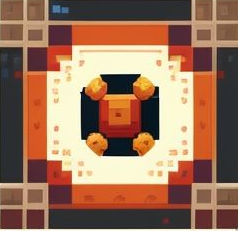
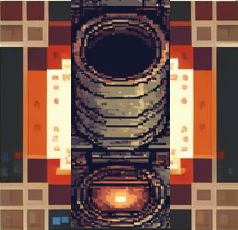
ui updates

diff --git a/scenes/game_scene.py b/scenes/game_scene.py
@@ -176,6 +176,20 @@ class GameScene:
             #print("Warning: Failed to load assets/effects/explosion.png for self-destruct effect.")
         # --- End Explosion Effect Image Loading ---
 
+        # --- Load Play Area Frame Overlay (single PNG with transparent center) ---
+        self.play_area_frame_image = None
+        try:
+            frame_path = os.path.join("assets", "images", "play_area_frame.png")
+            if os.path.exists(frame_path):
+                self.play_area_frame_image = pygame.image.load(frame_path).convert_alpha()
+            else:
+                # Optional: log a warning once
+                pass
+        except pygame.error:
+            # If image fails to load, continue without overlay
+            self.play_area_frame_image = None
+        # --- End Play Area Frame Overlay Loading ---
+
         # --- Placeholder Toggle Button ---
         self.debug_toggle_state = False # State of the toggle
         self.toggle_font = None
@@ -512,7 +526,8 @@ class GameScene:
             available_towers=self.available_towers, 
             tower_assets=self.tower_assets, 
             manager=self.ui_manager, 
-            initial_money=self.money, 
+            initial_money=self.money,
+            initial_lives=self.lives,
             panel_rect=pygame.Rect(self.panel_x, self.panel_y, self.panel_pixel_width, self.panel_pixel_height),
             damage_type_data=self.damage_type_data,
             click_sound=self.click_sound # Pass sound here
@@ -2098,6 +2113,12 @@ class GameScene:
                 if not instant_loss and self.game_state == GAME_STATE_RUNNING:
                     # Only deduct life if game hasn't ended due to boss
                     self.lives -= 1
+                    # Update tower selector lives display if present
+                    if hasattr(self, 'tower_selector') and self.tower_selector:
+                        try:
+                            self.tower_selector.update_lives(self.lives)
+                        except Exception:
+                            pass
                     # --- Play Life Loss Sound ---
                     if self.loss_life_sound:
                         self.loss_life_sound.play()
@@ -2194,45 +2215,54 @@ class GameScene:
         else:
             grid_bg_surface.fill((20, 20, 20)) # Fallback dark background
         
-        # Draw restricted side columns overlay
-        restricted_col_color = (40, 40, 40, 200) # Darker gray, more opaque
-        restricted_outline_color = (180, 180, 180) # Light gray outline
+        # Draw restricted side columns overlay (fills only; outlines removed to let frame art show)
+        # Icy blue tint for restricted areas
+        restricted_col_color = (120, 180, 255, 200)
         restricted_surface = pygame.Surface((self.usable_grid_pixel_width, self.usable_grid_pixel_height), pygame.SRCALPHA)
         
-        # Top restricted area fill and outline
+        # Top restricted area fill
         top_rect = pygame.Rect(0, 0, self.usable_grid_pixel_width, config.RESTRICTED_TOWER_AREA_HEIGHT * config.GRID_SIZE)
         pygame.draw.rect(restricted_surface, restricted_col_color, top_rect)
-        pygame.draw.rect(restricted_surface, restricted_outline_color, top_rect, 2) # Add outline
 
-        # Bottom restricted area fill and outline
-        # Calculate starting Y based on grid index to ensure alignment
+        # Bottom restricted area fill (aligned to grid)
         bottom_restricted_start_y_grid = self.grid_height - config.RESTRICTED_TOWER_AREA_HEIGHT
         bottom_restricted_start_y_pixel = bottom_restricted_start_y_grid * config.GRID_SIZE
         bottom_rect = pygame.Rect(0, bottom_restricted_start_y_pixel, 
                                 self.usable_grid_pixel_width, config.RESTRICTED_TOWER_AREA_HEIGHT * config.GRID_SIZE)
         pygame.draw.rect(restricted_surface, restricted_col_color, bottom_rect)
-        pygame.draw.rect(restricted_surface, restricted_outline_color, bottom_rect, 2) # Add outline
         
-        # Left restricted area fill and outline
+        # Left restricted area fill
         left_rect = pygame.Rect(0, 0, config.RESTRICTED_TOWER_AREA_WIDTH * config.GRID_SIZE, self.usable_grid_pixel_height)
         pygame.draw.rect(restricted_surface, restricted_col_color, left_rect)
-        pygame.draw.rect(restricted_surface, restricted_outline_color, left_rect, 2) # Add outline
         
-        # Right restricted area fill and outline
+        # Right restricted area fill
         right_rect = pygame.Rect(self.usable_grid_pixel_width - config.RESTRICTED_TOWER_AREA_WIDTH * config.GRID_SIZE, 0, config.RESTRICTED_TOWER_AREA_WIDTH * config.GRID_SIZE, self.usable_grid_pixel_height)
         pygame.draw.rect(restricted_surface, restricted_col_color, right_rect)
-        pygame.draw.rect(restricted_surface, restricted_outline_color, right_rect, 2) # Add outline
         
         grid_bg_surface.blit(restricted_surface, (0, 0))
 
         # Draw grid lines (on grid_bg_surface)
+        # Icy blue grid lines
+        icy_grid_color = (120, 180, 255)
         for x_line in range(0, self.usable_grid_pixel_width + 1, config.GRID_SIZE):
-            pygame.draw.line(grid_bg_surface, (80, 80, 80), (x_line, 0), (x_line, self.usable_grid_pixel_height))
+            pygame.draw.line(grid_bg_surface, icy_grid_color, (x_line, 0), (x_line, self.usable_grid_pixel_height))
         for y_line in range(0, self.usable_grid_pixel_height + 1, config.GRID_SIZE):
-            pygame.draw.line(grid_bg_surface, (80, 80, 80), (0, y_line), (self.usable_grid_pixel_width, y_line))
+            pygame.draw.line(grid_bg_surface, icy_grid_color, (0, y_line), (self.usable_grid_pixel_width, y_line))
             
         # Blit the completed grid surface onto the main screen at top-left
-        screen.blit(grid_bg_surface, (config.UI_PANEL_PADDING, config.UI_PANEL_PADDING)) # Add top/left padding
+        grid_topleft = (config.UI_PANEL_PADDING, config.UI_PANEL_PADDING)
+        screen.blit(grid_bg_surface, grid_topleft) # Add top/left padding
+
+        # Draw play area frame overlay if available (scaled to usable grid area)
+        if self.play_area_frame_image:
+            try:
+                frame_scaled = pygame.transform.scale(
+                    self.play_area_frame_image,
+                    (self.usable_grid_pixel_width, self.usable_grid_pixel_height)
+                )
+                screen.blit(frame_scaled, grid_topleft)
+            except Exception:
+                pass
 
         # --- Draw Spawn and Objective Areas (AFTER grid background is blitted) ---
         # Draw spawn area
@@ -3088,23 +3118,8 @@ class GameScene:
 
     def draw_ui(self, screen):
         """Draw UI elements"""
-        # Draw money and lives
-        font = pygame.font.Font(None, 36)
-        # money_text = font.render(f"Money: ${self.money}", True, (255, 255, 255)) # Commented out money rendering
-        lives_text_surface = font.render(f"Lives: {self.lives}", True, (255, 255, 255))
-        # screen.blit(money_text, (10, 10)) # Commented out money drawing
-        lives_text_rect = lives_text_surface.get_rect()
-        
-        # Center horizontally
-        lives_text_rect.centerx = self.screen_width // 2
-        
-        # Position vertically near the bottom (using bottom padding as reference)
-        lives_text_rect.bottom = self.screen_height - config.UI_PANEL_PADDING
-        
-        # NEW: Center the text rect within the objective area rect
-        lives_text_rect.center = self.objective_area_rect.center
-        
-        screen.blit(lives_text_surface, lives_text_rect)
+        # Lives now display in tower selector panel; nothing to draw here
+        return
         
 
 

diff --git a/ui/tower_selector.py b/ui/tower_selector.py
@@ -6,7 +6,7 @@ from pygame_gui.elements import UIScrollingContainer # Import the scrolling cont
 import os
 
 class TowerSelector:
-    def __init__(self, available_towers, tower_assets, manager, initial_money, panel_rect, damage_type_data, click_sound):
+    def __init__(self, available_towers, tower_assets, manager, initial_money, initial_lives, panel_rect, damage_type_data, click_sound):
         """
         Initialize the tower selection UI panel within the provided rect.
         
@@ -14,6 +14,7 @@ class TowerSelector:
         :param tower_assets: Instance of TowerAssets
         :param manager: pygame_gui UIManager instance
         :param initial_money: The starting money amount from the game scene
+        :param initial_lives: The starting lives amount from the game scene
         :param panel_rect: The pygame.Rect defining the panel's position and size
         :param damage_type_data: Dictionary containing descriptions for damage types
         :param click_sound: Loaded pygame.mixer.Sound object for clicks
@@ -27,6 +28,7 @@ class TowerSelector:
         self.tower_images = {}
         self.expanded_tower_id = None
         self.money = initial_money
+        self.lives = initial_lives
         self.damage_type_data = damage_type_data # Store damage type data
         self.click_sound = click_sound # Store sound effect
         self.tower_counts = {}  # Track number of each tower type built
@@ -60,19 +62,22 @@ class TowerSelector:
         # --- Internal Layout (relative to panel) ---
         current_y = 10 # Start Y for internal elements
 
-        # Add title 
-        title_height = 30
-        title_rect = pygame.Rect(10, current_y, self.panel_width - 20, title_height)
-        self.title_label = pygame_gui.elements.UILabel(
-            relative_rect=title_rect,
-            text='Select Tower',
+        # Remove previous title label ("Select Tower") to reclaim space
+
+        # Add lives display (top of panel)
+        lives_height = 28
+        lives_rect = pygame.Rect(10, current_y, self.panel_width - 20, lives_height)
+        self.lives_label = pygame_gui.elements.UILabel(
+            relative_rect=lives_rect,
+            text=f'Lives: {self.lives}',
             manager=self.manager,
-            container=self.panel
+            container=self.panel,
+            object_id="#lives_label"
         )
-        current_y += title_height + 5
+        current_y += lives_height + 4
         
         # Add money display 
-        money_height = 30
+        money_height = 28
         money_rect = pygame.Rect(10, current_y, self.panel_width - 20, money_height)
         self.money_label = pygame_gui.elements.UILabel(
             relative_rect=money_rect,
@@ -81,7 +86,7 @@ class TowerSelector:
             container=self.panel,
             object_id="#money_label"
         )
-        current_y += money_height + 15
+        current_y += money_height + 12
         
         # --- Create Scrolling Container for Buttons ---
         # Calculate remaining height for the scroll container
@@ -149,7 +154,7 @@ class TowerSelector:
                 manager=self.manager,
                 container=self.button_scroll_container.get_container(), # Get the actual container surface
                 tool_tip_text=tooltip_text,
-                object_id=f"#tower_button_{tower_id}"
+                object_id="#tower_button"
             )
             self.tower_buttons[tower_id] = button
 
@@ -299,6 +304,15 @@ class TowerSelector:
         self.money = new_amount
         self.money_label.set_text(f'Money: ${self.money}')
         self.update_button_states()  # Refresh button states based on new money amount 
+
+    def update_lives(self, new_lives):
+        """Update the lives display label at the top of the panel."""
+        self.lives = new_lives
+        if hasattr(self, 'lives_label'):
+            try:
+                self.lives_label.set_text(f'Lives: {self.lives}')
+            except Exception:
+                pass
 
     def update_tower_counts(self, tower_counts):
         """Update the tower counts and refresh button states."""
